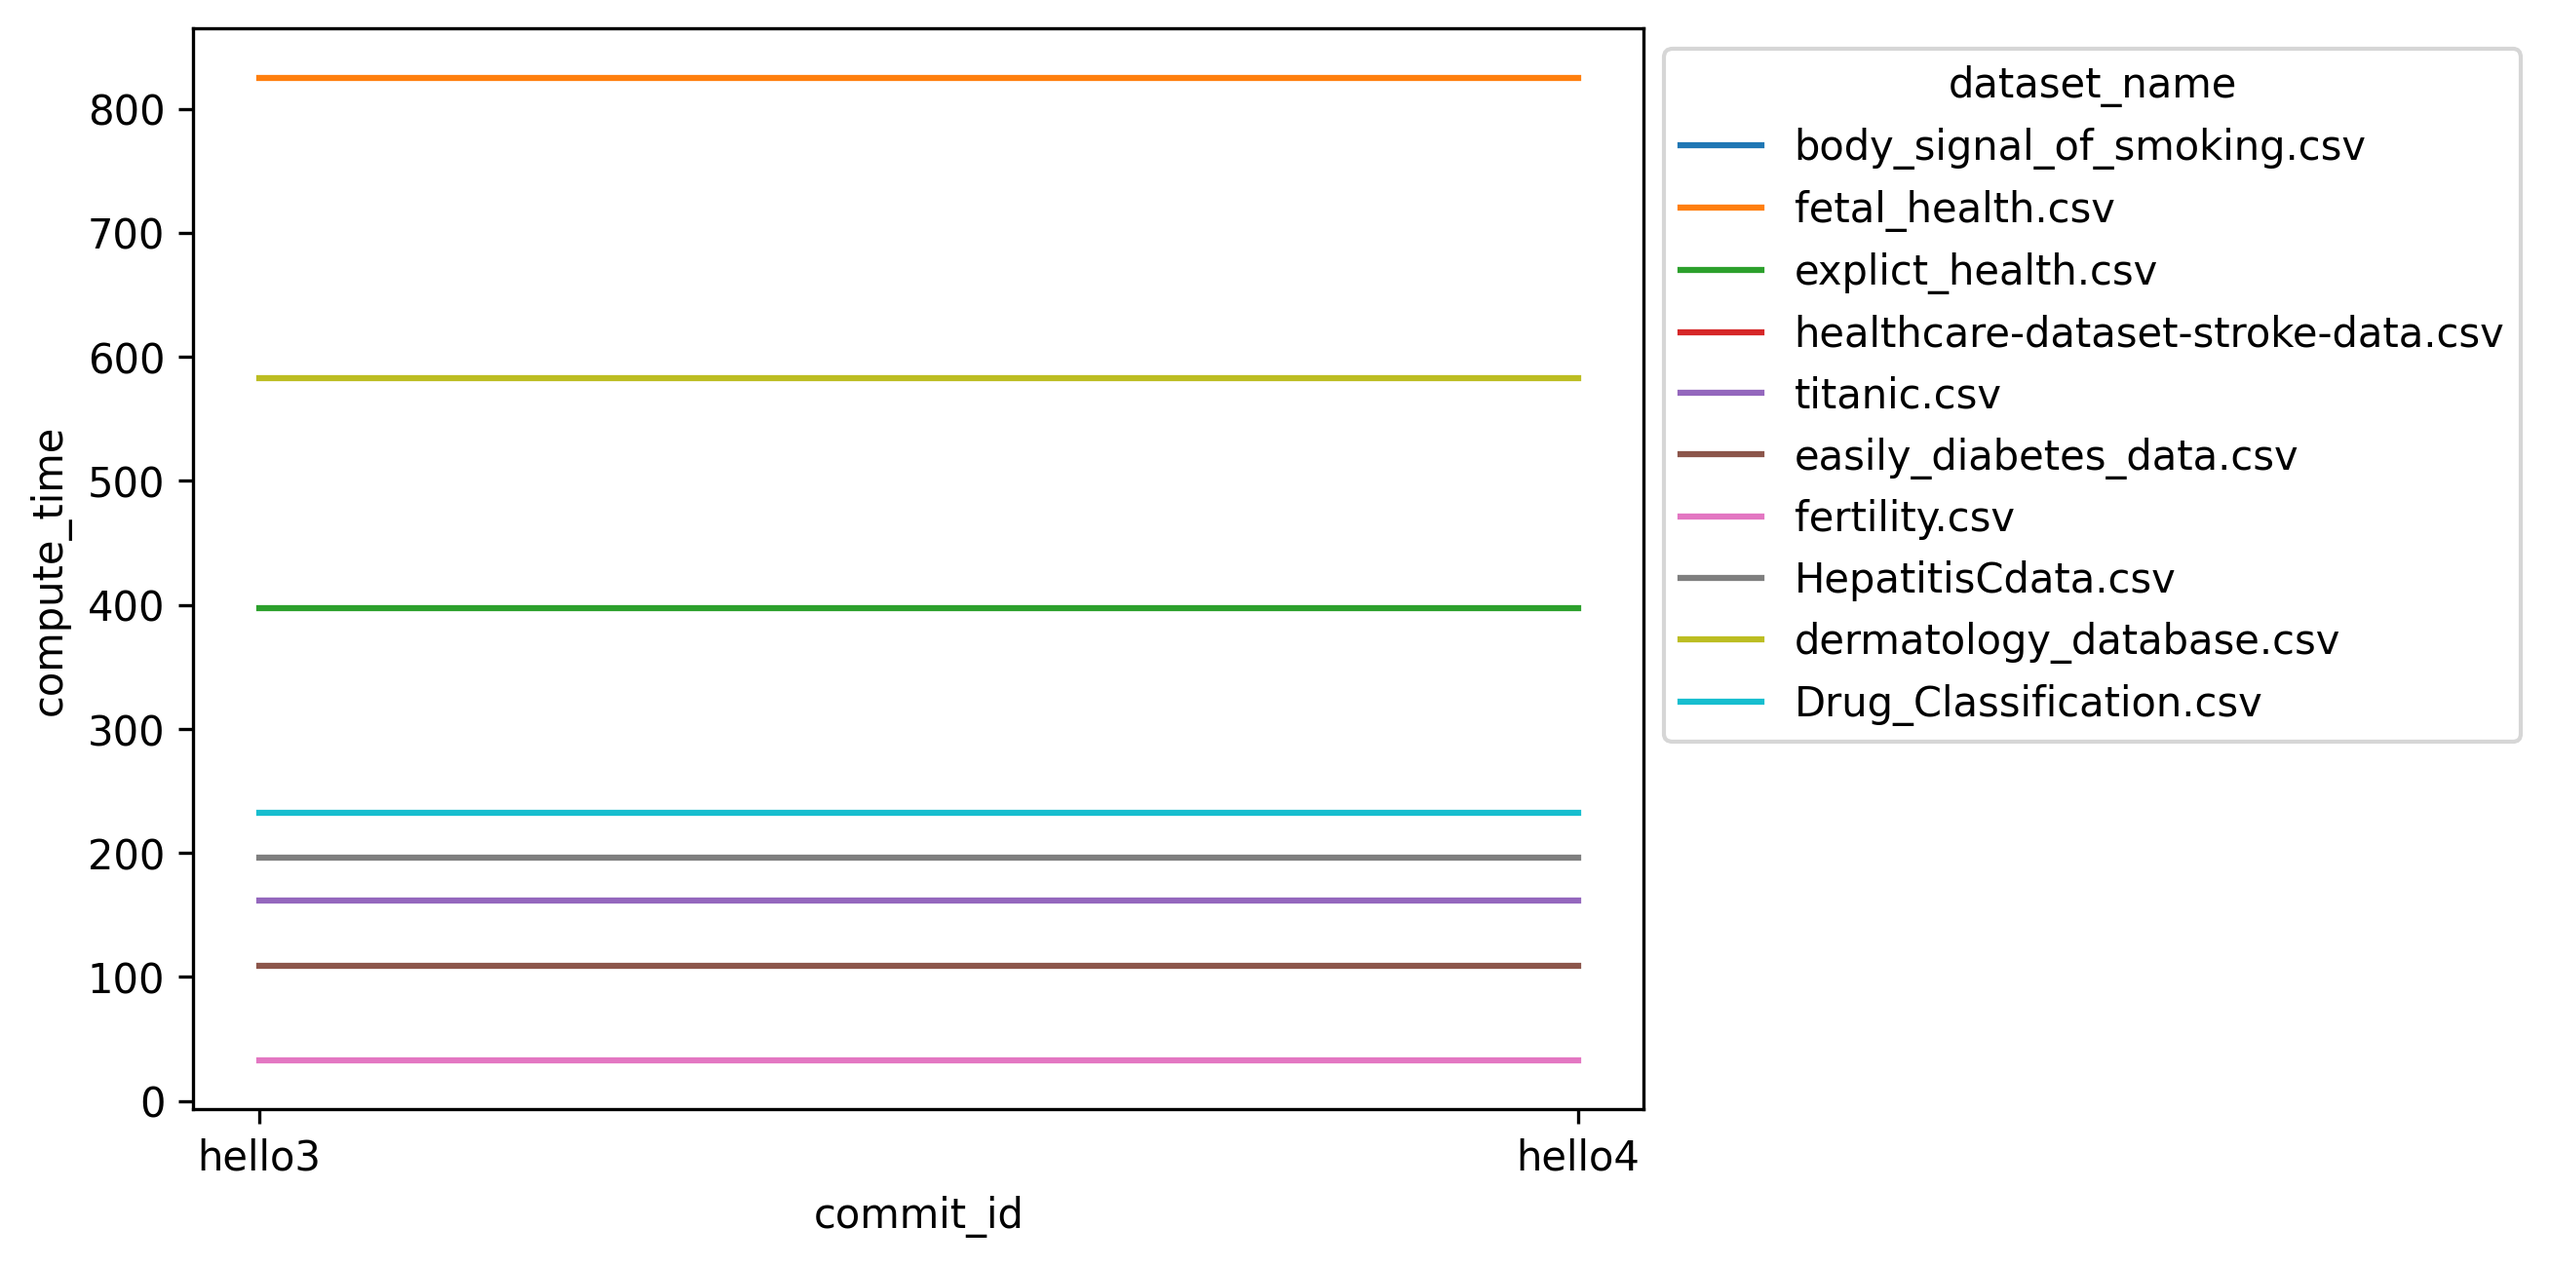
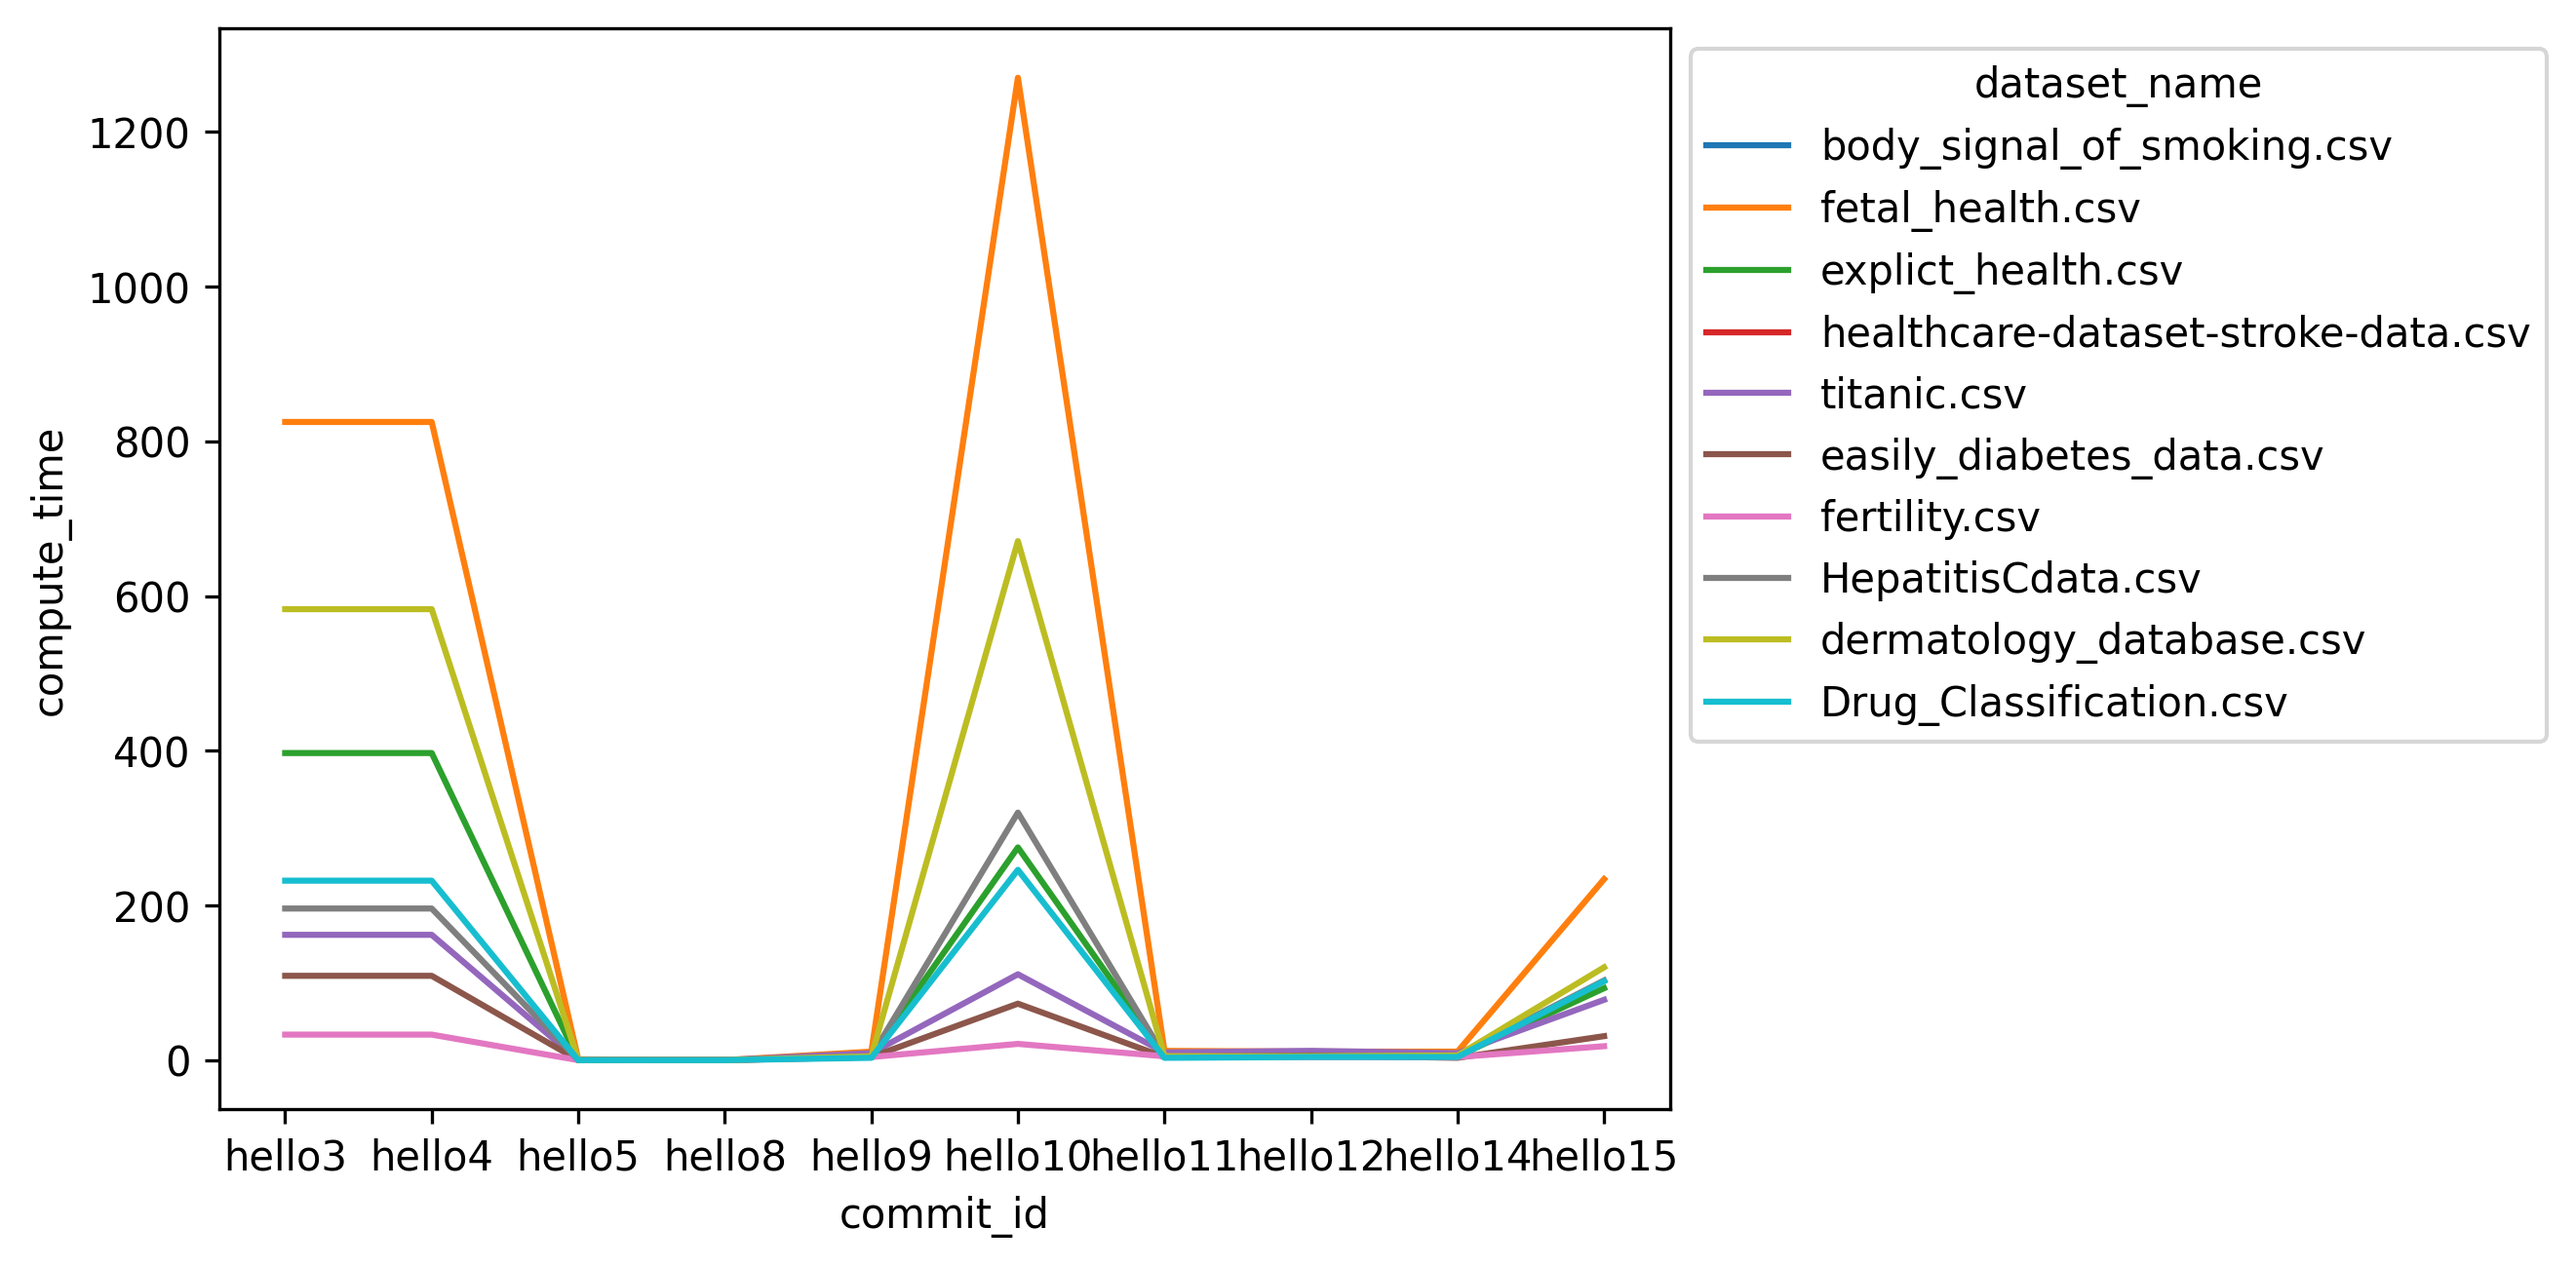
[DOCS] A bit of docs for Python service

Changed region(s): [[0.031, 0.0308, 0.9908, 0.9854], [0.3716, 0.0616, 0.4025, 0.1848]]

diff --git a/docs/Python Service/routes.md b/docs/Python Service/routes.md
@@ -1,1 +1,72 @@
 # Routes
+
+## Create new treatment
+**Path : /create/**
+
+Parameters :
+- data (binary) : Binary data to load 
+- data_path (string) : Path to load the data (instead of "data" parameter)
+- pipeline_name (string) : Name of the pipeline to load (ex: "classifier")
+
+Return :
+- id : Id of the treatment 
+- config (json) : Configuration of all steps in the pipeline
+
+## Update config
+**Path : /configure/:id**
+
+Parameters:
+- configurations (json) : JSON containing steps configuration. 
+
+Return :
+- boolean value
+
+Json format
+```json
+configurations: [
+    {
+        step_id: <object_id>,
+        configuration: [
+            {
+            key: <str>,
+            value: <any>
+            },
+            {
+            key: <str>,
+            value: <any>
+            },
+            ...
+        ]
+    },
+    {
+        step_id: <object_id>,
+        configuration: [
+            {
+            key: <str>,
+            value: <any>
+            },
+            {
+            key: <str>,
+            value: <any>
+            },
+            ...
+        ]
+    },
+    ...
+]
+```
+
+Only Step and Key you want to update is needed. 
+
+## Run
+**Path : /run/:id**
+
+Parameters :
+- Nothing
+
+Return :
+- Boolean value
+
+This route will run pipeline treatment. The treatment is asynchronous so only a boolean value will be returned.
+Each update in the pipeline (end of a step for example) will trigger a push information to the web server.
+
